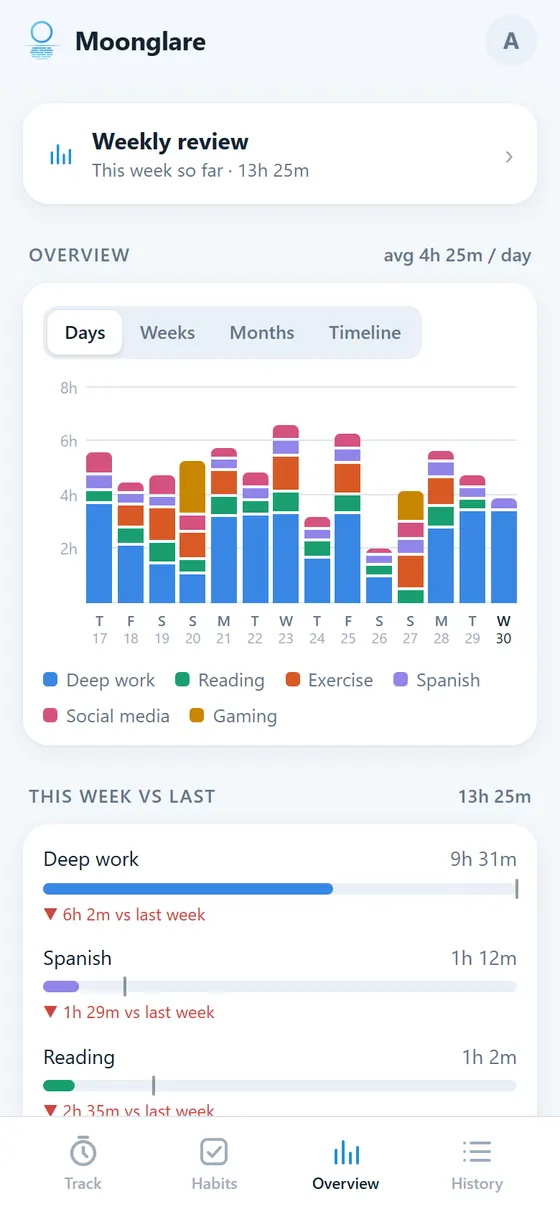
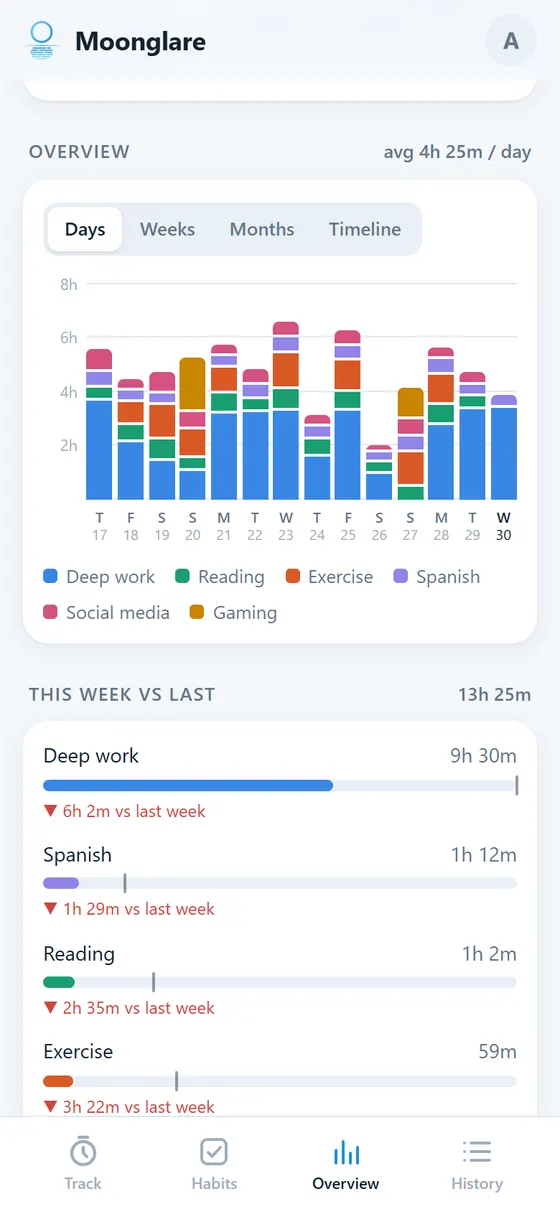
Move 10,000 hours to Overview
The section (and the "Track a skill toward 10,000 hours" button) now sits
under the weekly review on Overview; tiles keep their 10k h tag. Landing
and Instagram screenshots retaken to match.

diff --git a/public/js/08-track.js b/public/js/08-track.js
@@ -97,7 +97,7 @@ function streakLine(a) {
   return `<div class="streakl num">${icon("bolt", 12)}${what}${sk.best > sk.current ? ` · best ${sk.best}` : ""}</div>`;
 }
 
-/* ---------- 10,000 hours ---------- */
+/* ---------- 10,000 hours (shown on Overview; the running skill's hours tick in 13-account.js) ---------- */
 const MASTERY_SEC = 10000 * 3600;
 const MILESTONES = [1, 10, 50, 100, 250, 500, 1000, 2500, 5000, 7500, 10000];
 const fmtHours = (sec) => (sec / 3600).toLocaleString(undefined, { minimumFractionDigits: 1, maximumFractionDigits: 1 });
@@ -201,7 +201,7 @@ function renderTrack() {
            ${streakLine(a)}</span>
            ${tileBar(a)}
          </button>`;
-       }).join("")}</div><p class="hint holdhint">Tap to start or stop · press and hold to edit</p>${masteryHTML(acts)}`
+       }).join("")}</div><p class="hint holdhint">Tap to start or stop · press and hold to edit</p>`
     : starterHTML();
 
   app.innerHTML = (acts.length || r ? hero : "") + list;
@@ -217,7 +217,6 @@ function renderTrack() {
   bindLiveGoal(runAct);
   $("#goadd")?.addEventListener("click", () => openActivity());
   $("#resume")?.addEventListener("click", (e) => start(Number(e.currentTarget.dataset.id), pointOf(e.currentTarget)));
-  $("#mstart")?.addEventListener("click", openMasteryPick);
   $("#setgoals")?.addEventListener("click", () => openGoal(state.activities.find((a) => !a.goal_minutes) || state.activities[0]));
   $$(".tile").forEach((b) => {
     b.onclick = () => (r && r.activity_id == b.dataset.id) ? stop() : start(Number(b.dataset.id), pointOf(b));

diff --git a/public/js/09-history.js b/public/js/09-history.js
@@ -340,11 +340,12 @@ async function openReview(start) {
 
 // Overview: everything for looking back (time, habits, counters, connections)
 function renderOverview() {
-  app.innerHTML = reviewCard() + renderChartCard() + renderCompare() + renderHeatmap() + habitsOverviewHTML();
+  app.innerHTML = reviewCard() + masteryHTML(state.activities) + renderChartCard() + renderCompare() + renderHeatmap() + habitsOverviewHTML();
   bindChart();
   bindHeatmap();
   bindHabitCards();
   $("#openreview").onclick = () => openReview();
+  $("#mstart")?.addEventListener("click", openMasteryPick);
   $$(".blk").forEach((b) => b.onclick = () => openEntry(findEntry(b.dataset.entry)));
 }
 

diff --git a/public/sw.js b/public/sw.js
@@ -1,6 +1,6 @@
 // Offline: the app's own files are kept in a cache so it opens without a connection.
 // Always network first (you get the newest version when online), the cache is the fallback.
-const CACHE = "moonglare-v23";
+const CACHE = "moonglare-v24";
 const SHELL = [
   "/", "/app.css", "/theme.js", "/manifest.json", "/icon-192.png", "/icon-512.png", "/icon.svg", "/logo.svg", "/apple-touch-icon.png", "/favicon-32.png", "/privacy.html",
   "/js/00-intro.js", "/js/01-core.js", "/js/02-login.js", "/js/03-track-status.js", "/js/04-habits.js", "/js/05-live.js", 
